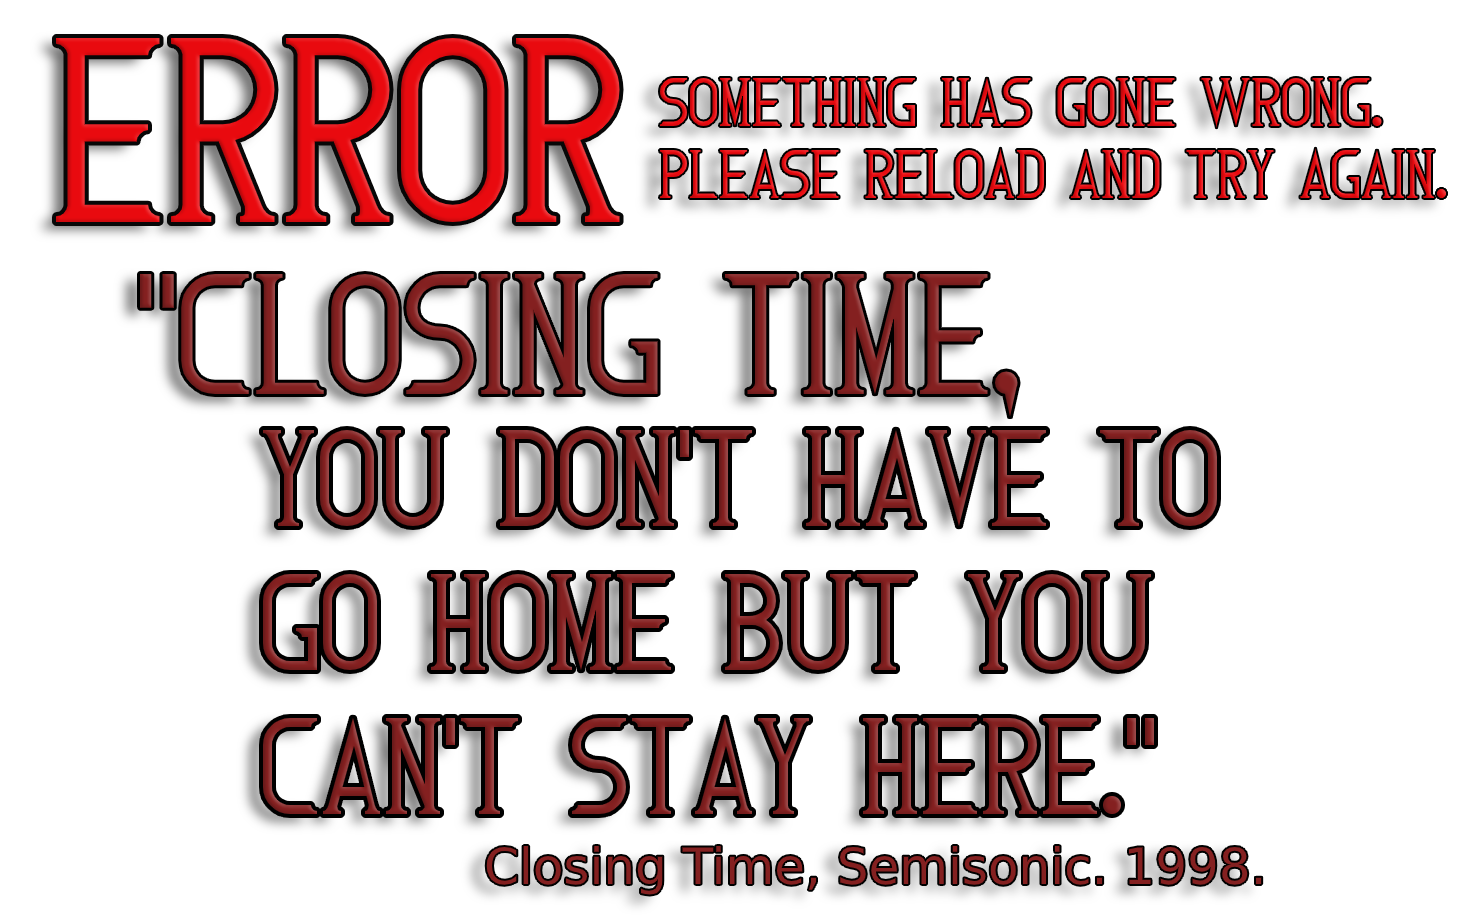
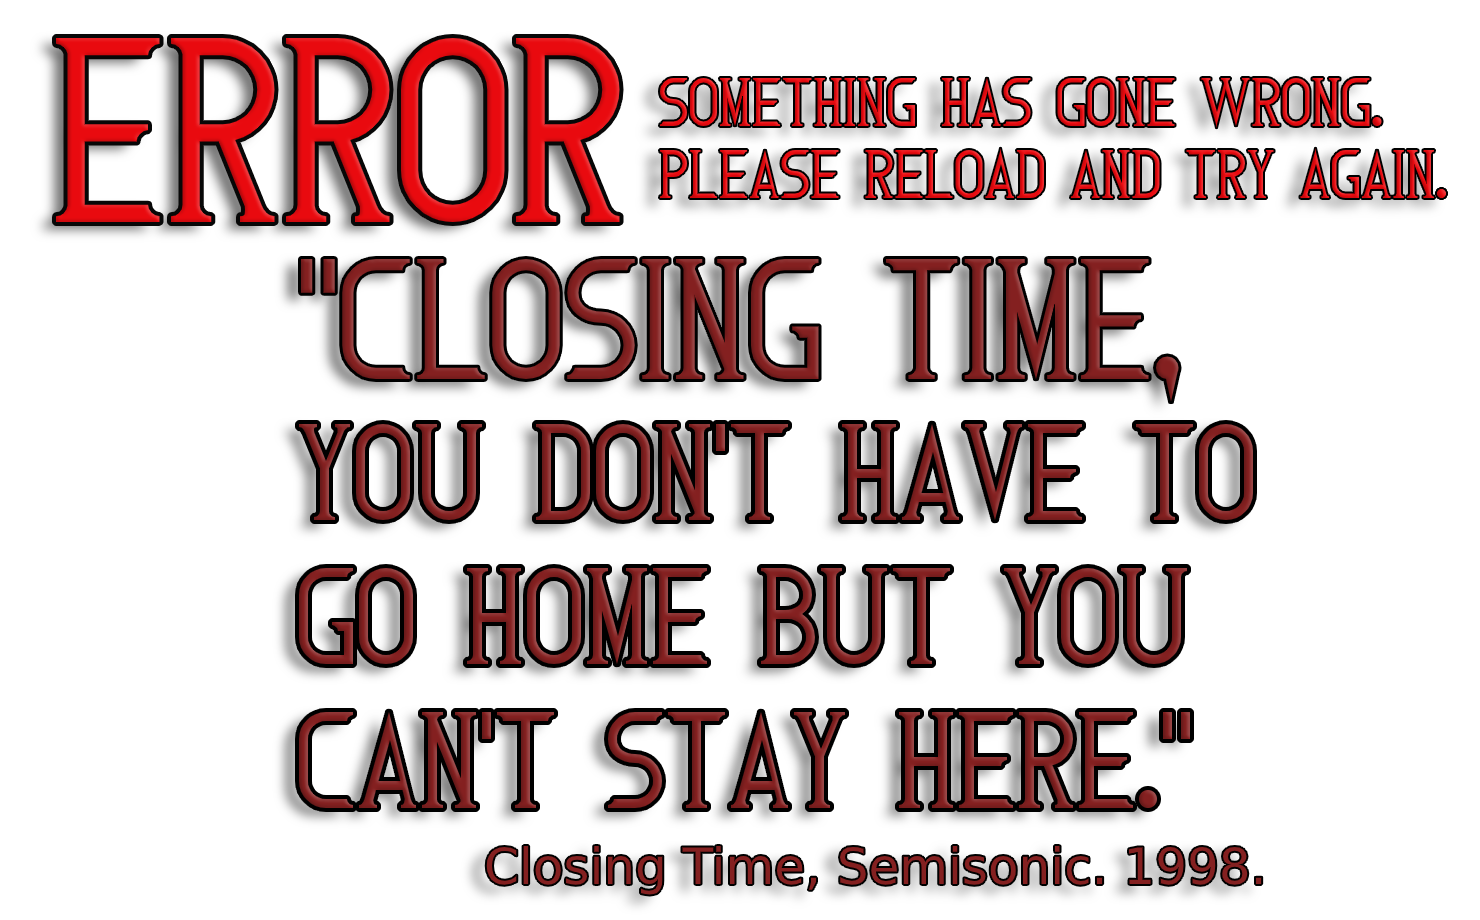
More stylistic changes and quality of life upgrades

Changed region(s): [[0.0622, 0.2739, 0.8703, 0.913]]

diff --git a/index.js b/index.js
@@ -85,7 +85,7 @@ passport.use(new LocalStrategy (
     (username, password, done) =>{
       models.user.findOne({
         where: {
-            username: username
+            username: username,
         },
       }).then((user) =>{
         if (!user) {
@@ -109,6 +109,7 @@ app.post('/index',
   passport.authenticate('local', { failureRedirect: '/error' }),
   function(req, res) {
     res.redirect('/welcome');
+
 });
 
 // GOOGLE LOGIN
@@ -133,7 +134,8 @@ passport.use(new GoogleStrategy({
       } else {
         models.user.create({
           username: profile.displayName,
-          googleId: profile.id
+          googleId: profile.id,
+          nickname: profile.name.givenName
         }).then((newUser) => {
           console.log("New User created: " + newUser);
           done(null, newUser);
@@ -153,6 +155,7 @@ app.post('/register', function (req, res) {
     models.user.create({
         password: encryptionPassword(req.body.password),
         username: req.body.username,
+        nickname: req.body.nickname
     })
     .then(function (user) {
         res.redirect("index")
@@ -193,7 +196,8 @@ app.post('/index', passport.authenticate('local', {
 ////////////////SHOULD DIRECT TO HOMEPAGE AFTER LOGIN////////////////////
 
 app.get("/welcome", checkAuthenticated, function (req, response) {
-    response.render("welcome");
+    response.render("welcome"),
+    {users: req.user};
 });
 
 app.post("/welcome",

diff --git a/public/styles/welcome.css b/public/styles/welcome.css
@@ -14,7 +14,7 @@
 }
 
 #logo {
-  width: 100px;
+  width: 450px;
   height: 60px;
 }
 
@@ -40,7 +40,7 @@ h4 {
 
 
 #card-body1 {
-  background-image: url("/images/wine.png");
+  background-image: url("/images/wineQuote.png");
   background-repeat: no-repeat, repeat;
     background-size: contain;
     height: 200px;
@@ -48,7 +48,7 @@ h4 {
 }
 
 #card-body2 {
-  background-image: url("/images/beer.png");
+  background-image: url("/images/beerQuote.png");
   background-repeat: no-repeat, repeat;
   background-size: contain;
   height: 200px;
@@ -56,7 +56,7 @@ h4 {
 }
 
 #card-body3 {
-  background-image: url("/images/liquor.png");
+  background-image: url("/images/liquorQuote.png");
   background-repeat: no-repeat, repeat;
   background-size: contain;
   height: 200px;
@@ -81,5 +81,9 @@ p {
   margin: 20px;
   text-align: center;
   font-size: 18px;
+}
+
+.nav-link {
+  font-size: 1.5rem;
 }
 

diff --git a/models/user.js b/models/user.js
@@ -4,7 +4,8 @@ module.exports = (sequelize, DataTypes) => {
   const user = sequelize.define('user', {
     username: DataTypes.STRING,
     password: DataTypes.STRING,
-    googleId: DataTypes.STRING
+    googleId: DataTypes.STRING,
+    nickname: DataTypes.STRING
   }, {});
 
   user.associate = function(models) {

diff --git a/routes/indexRoutes.js b/routes/indexRoutes.js
@@ -8,7 +8,6 @@ const router = require('express').Router();
 const Wine = require('../models').Wine;
 const User = require('../models').User;
 
-
 //Create router for signup or register new user/////
 ///////////////////////////////////////////////////
 

diff --git a/migrations/20200110155753-create-user.js b/migrations/20200110155753-create-user.js
@@ -14,6 +14,9 @@ module.exports = {
       password: {
         type: Sequelize.STRING
       },
+      nickname: {
+        type: Sequelize.STRING
+      },
       createdAt: {
         allowNull: false,
         type: Sequelize.DATE

diff --git a/public/styles/stylesRegister.css b/public/styles/stylesRegister.css
@@ -8,7 +8,6 @@
     background: radial-gradient(circle, rgba(252,70,107,1) 0%, rgba(63,94,251) 100%);
   }
 
-  
   .card-signin {
     border: 0;
     border-radius: 1rem;

diff --git a/public/styles/error.css b/public/styles/error.css
@@ -5,6 +5,7 @@ body {
 
 #errorImageContainer {
     display: block;
+    margin-top: 100px;
     margin-left: auto;
     margin-right: auto;
     width: 60%;
